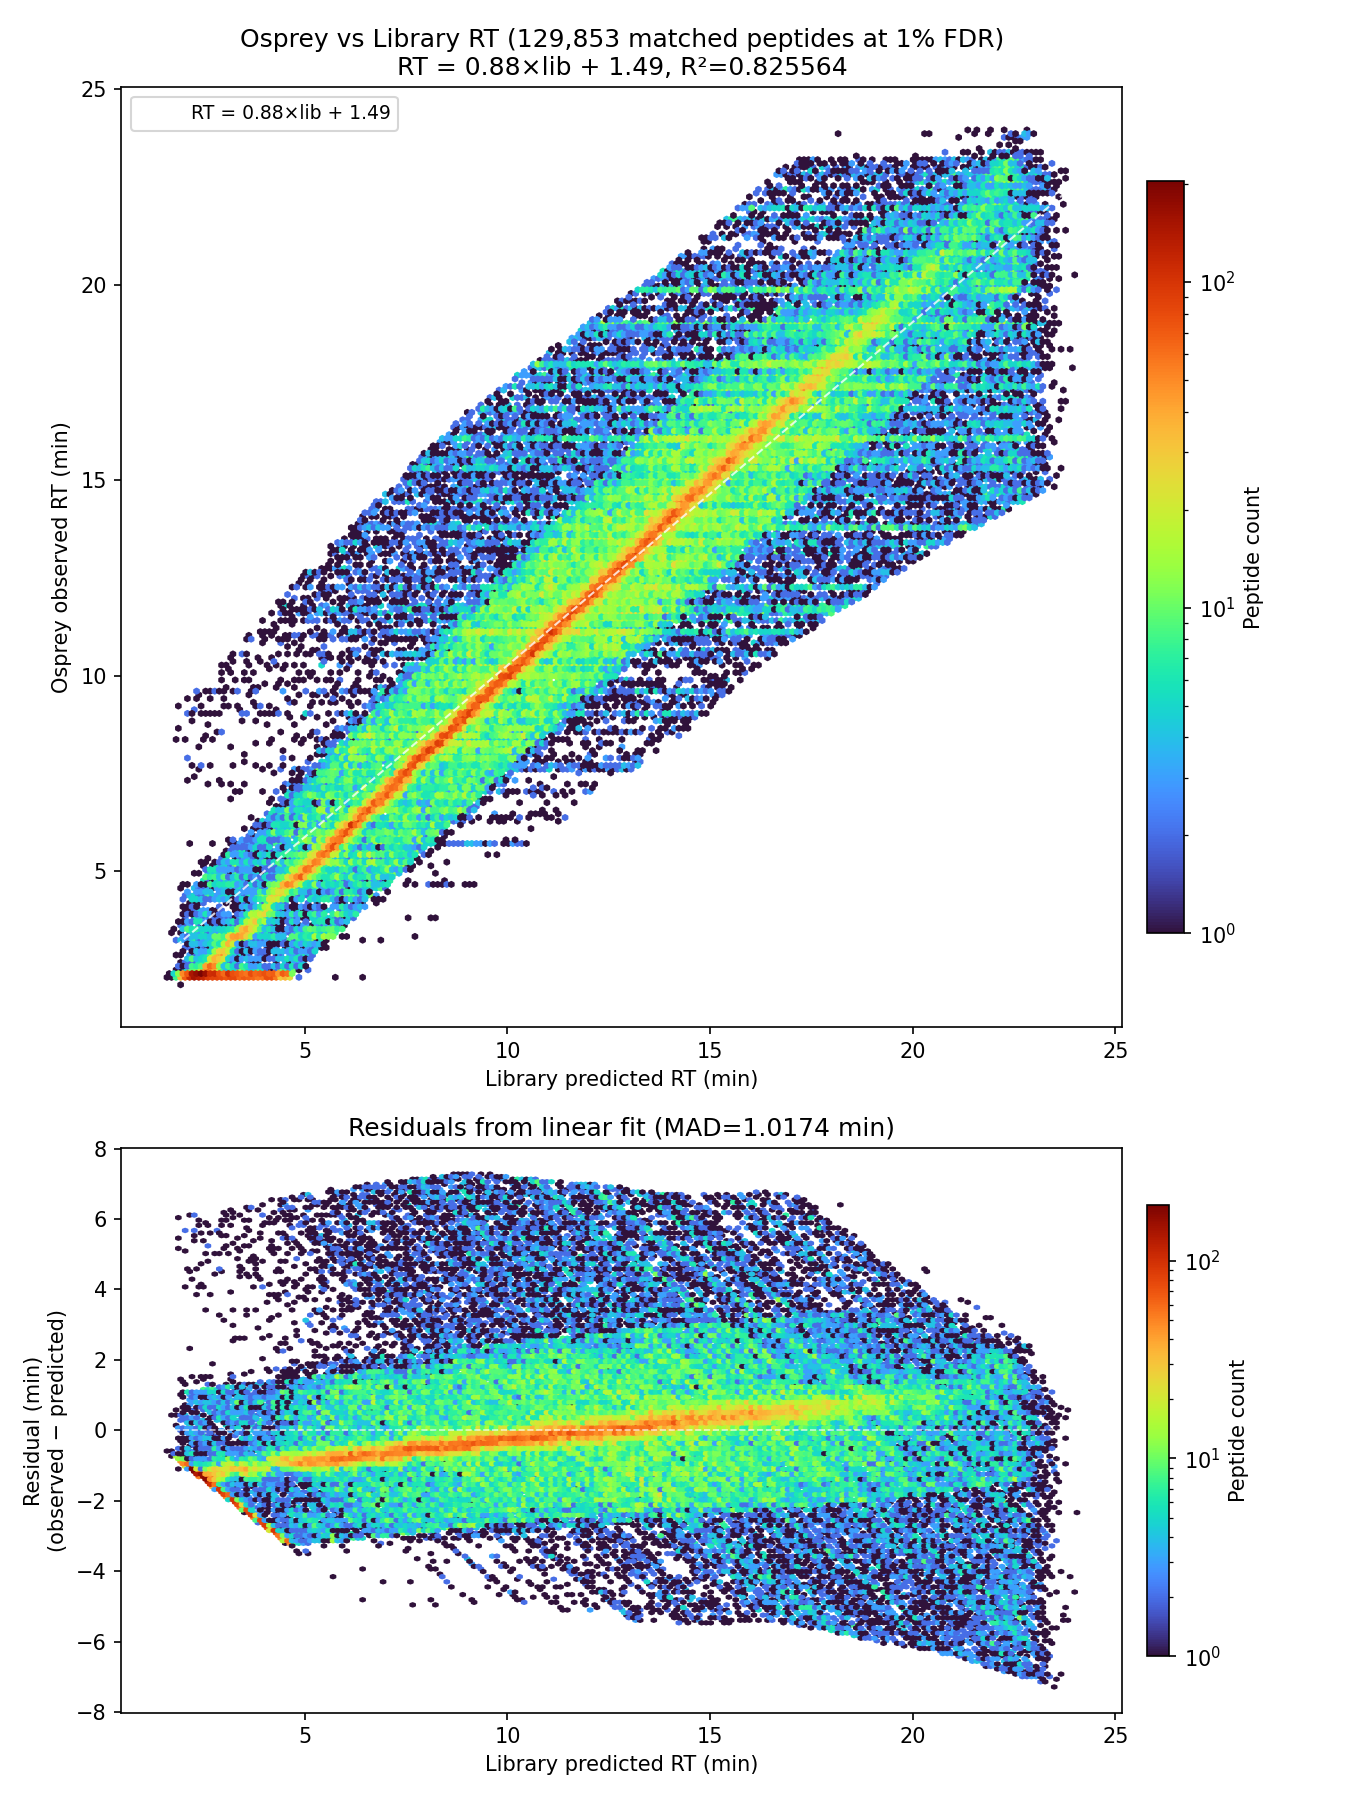
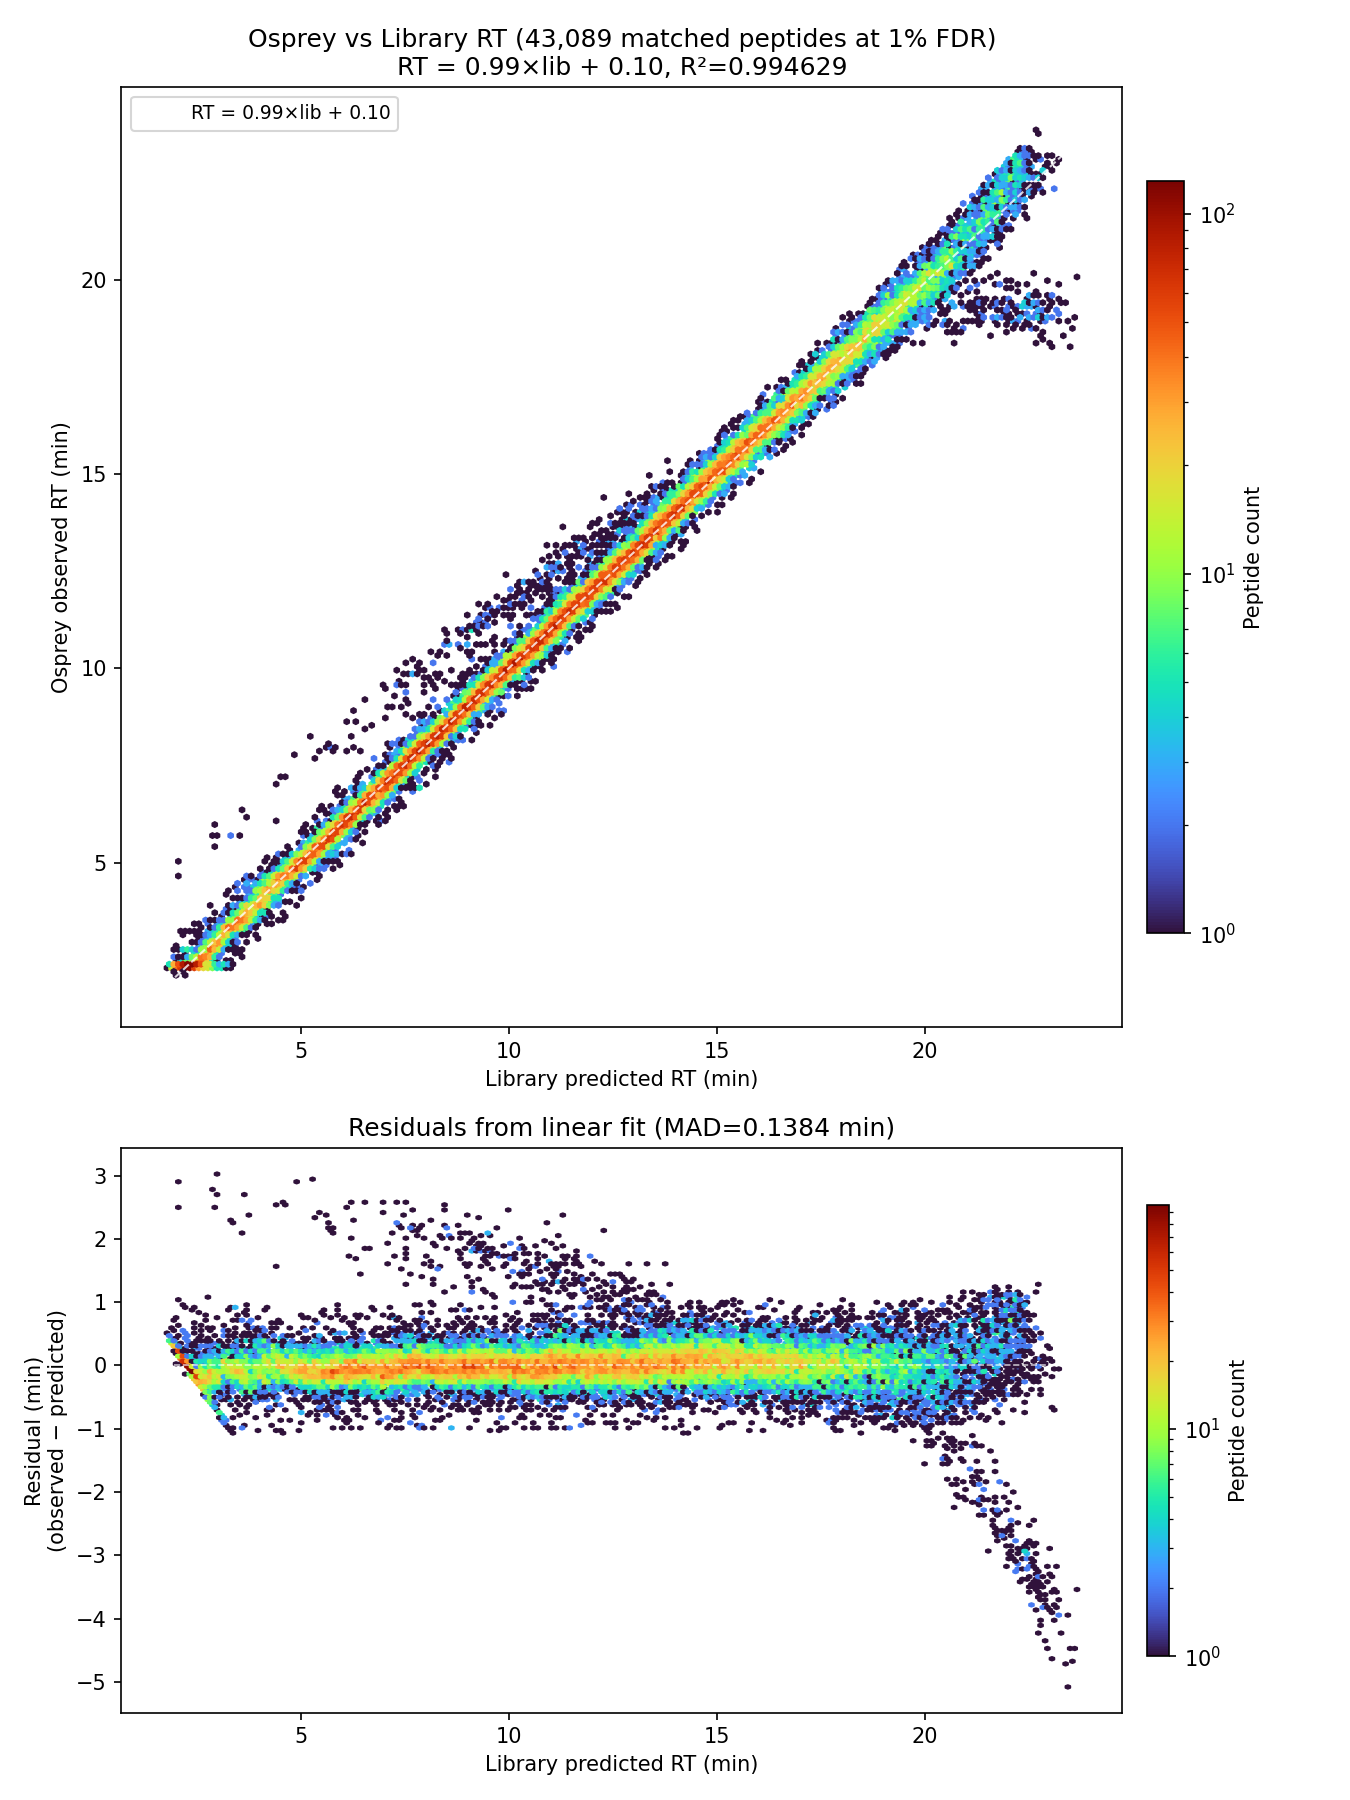
Update RT calibration configuration: reduce minimum RT tolerance to 0.5 minutes

diff --git a/crates/osprey-core/src/config.rs b/crates/osprey-core/src/config.rs
@@ -351,7 +351,7 @@ pub struct RTCalibrationConfig {
 }
 
 fn default_min_rt_tolerance() -> f64 {
-    1.0
+    0.5
 }
 
 fn default_calibration_sample_size() -> usize {
@@ -378,7 +378,7 @@ impl Default for RTCalibrationConfig {
             min_calibration_points: 200,
             rt_tolerance_factor: 3.0,
             fallback_rt_tolerance: 2.0,
-            min_rt_tolerance: 1.0,           // 1 minute minimum
+            min_rt_tolerance: 0.5,           // 0.5 minute minimum
             initial_tolerance_fraction: 1.0, // 100% of RT range (no RT filtering, like pyXcorrDIA)
             calibration_sample_size: 100000,
             calibration_retry_factor: 2.0,
